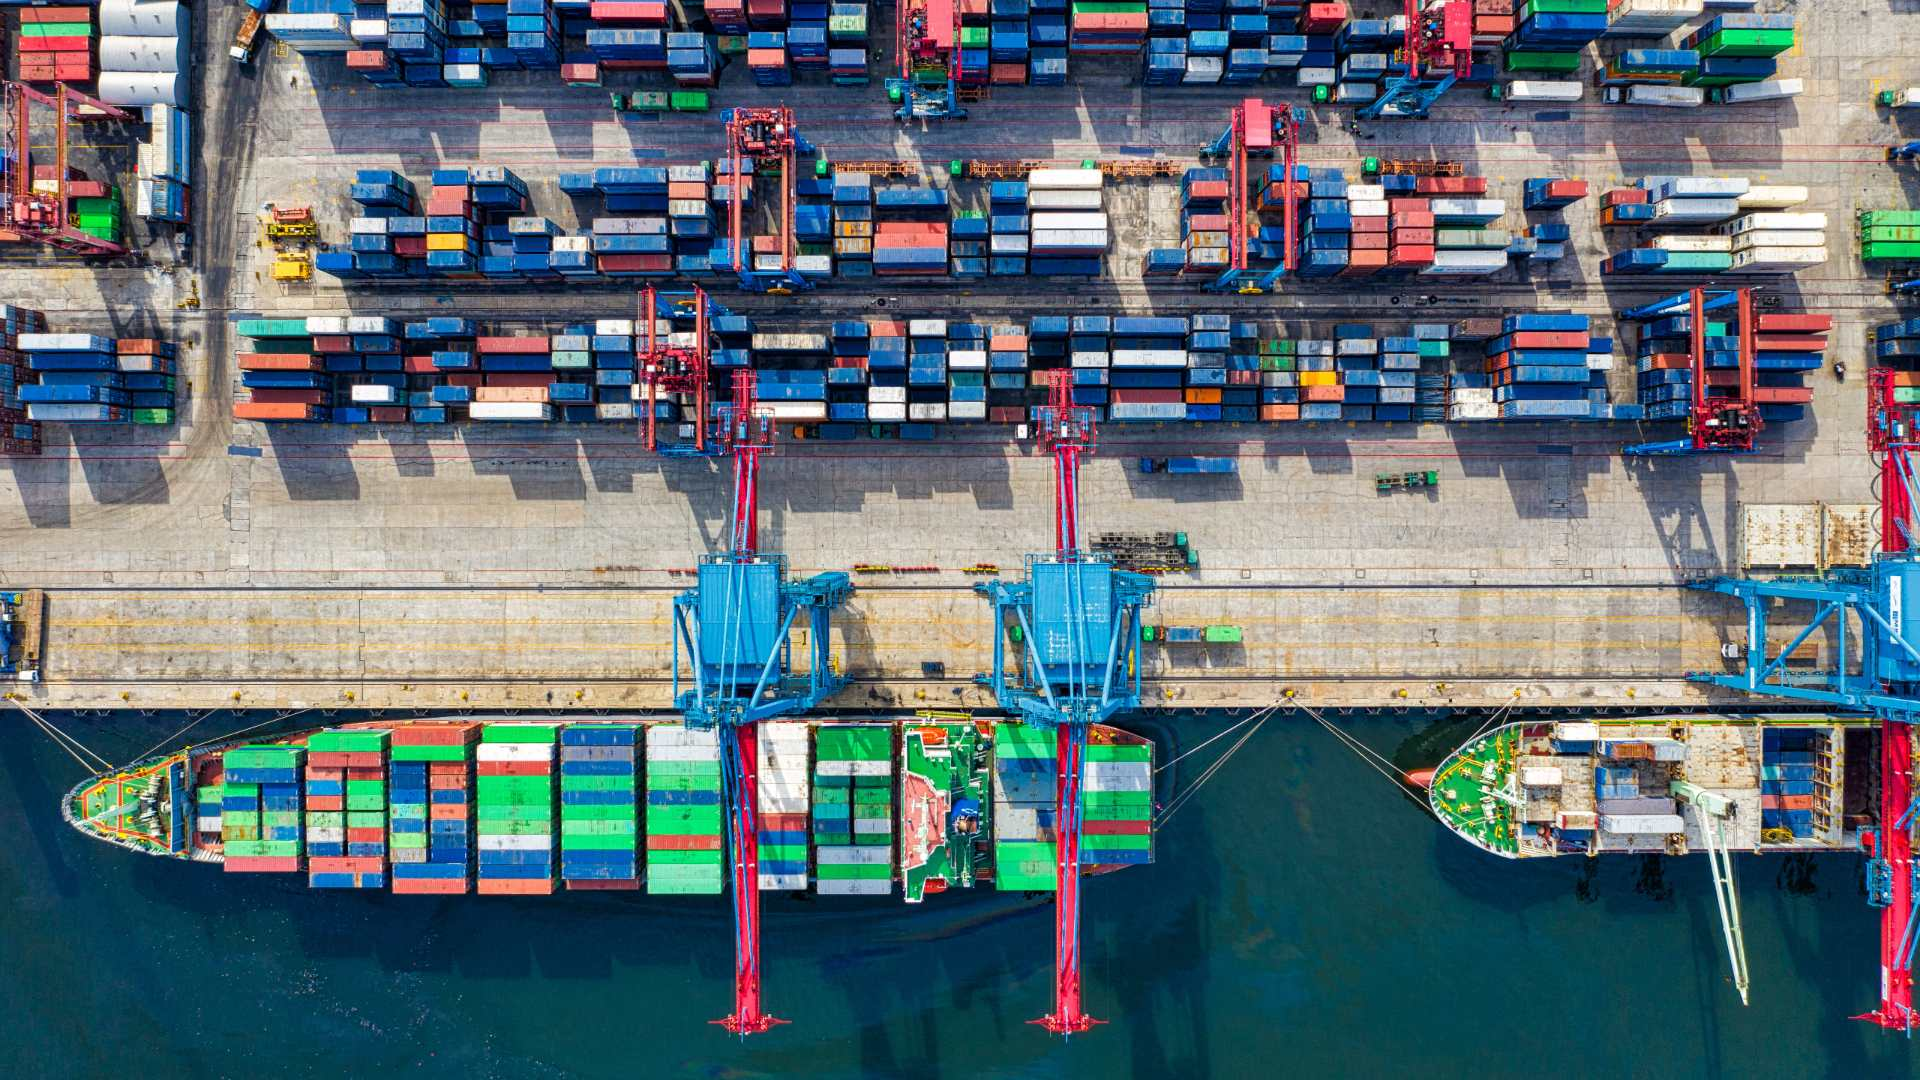
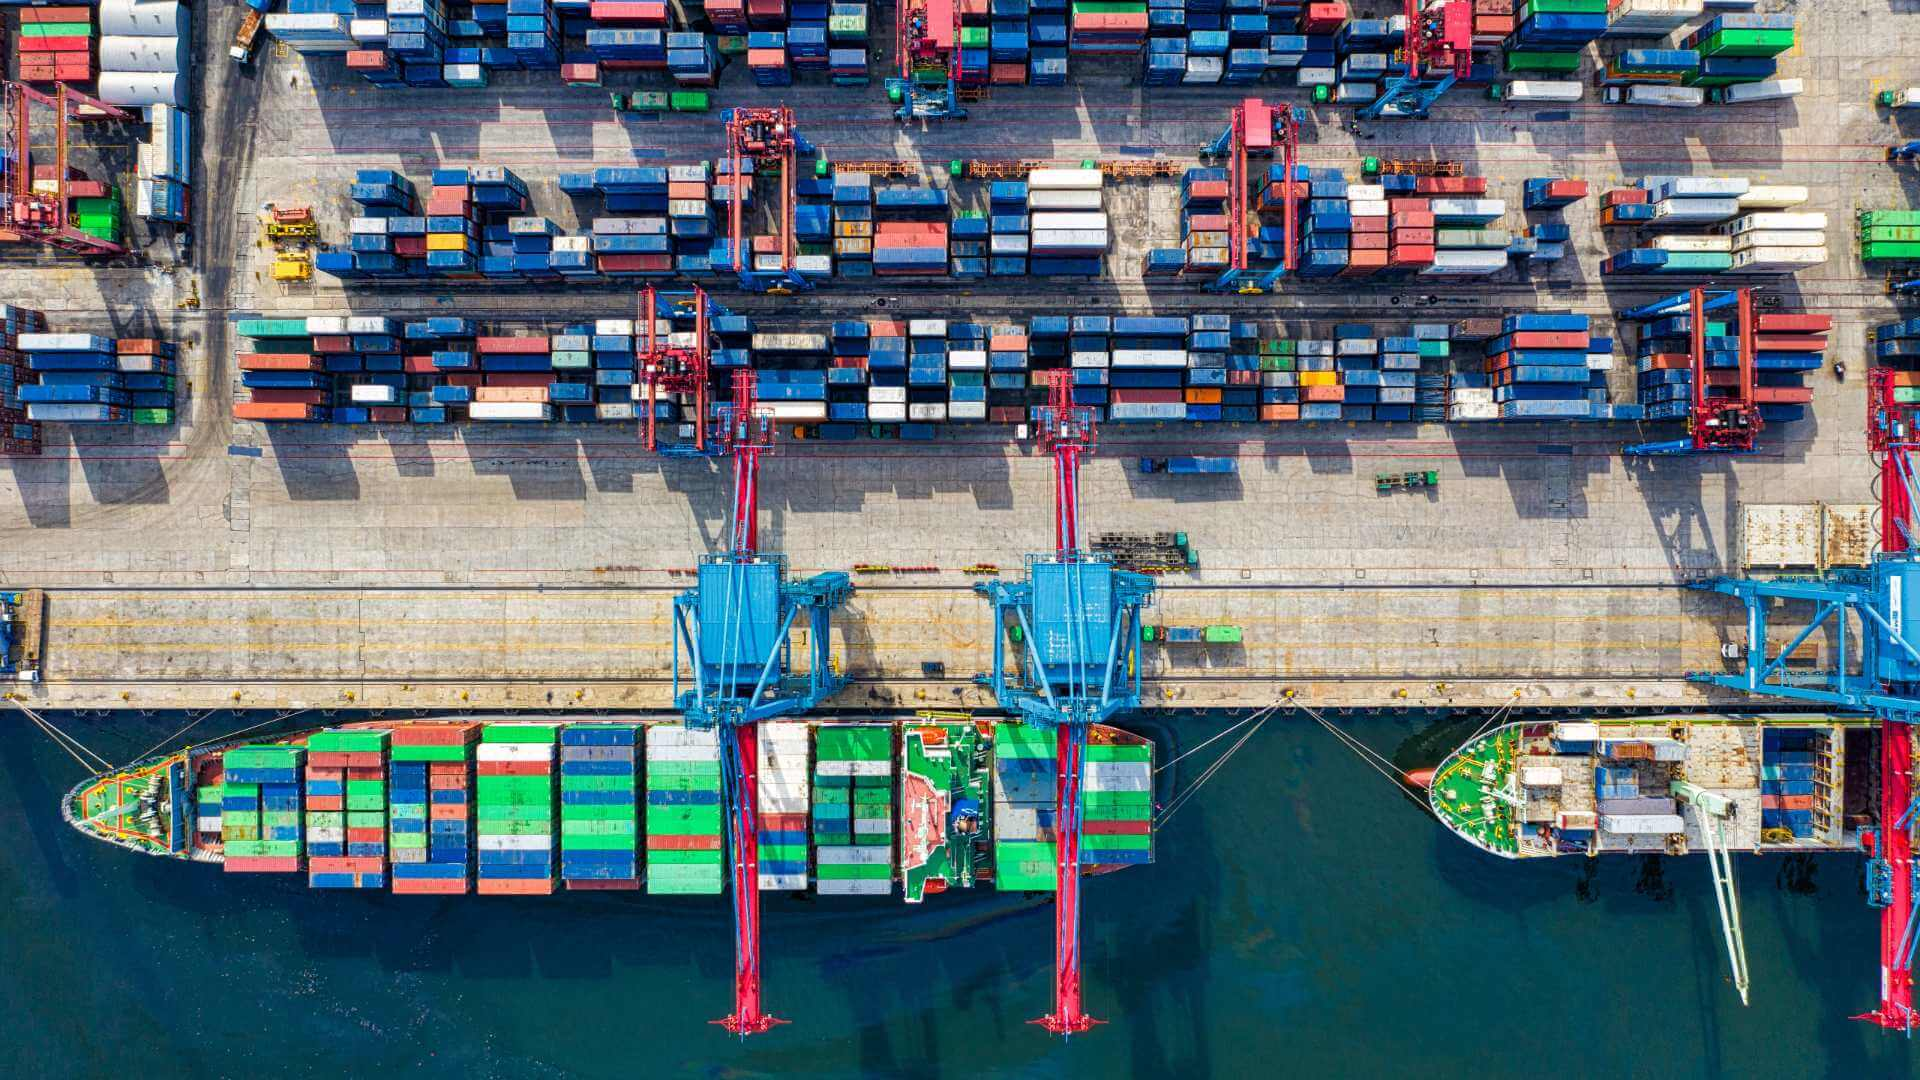
image optimize

Changed region(s): [[0.5312, 0.7944, 0.5625, 0.825], [0.375, 0.7028, 0.4062, 0.7333]]

diff --git a/src/app/pages/home/home.component.html b/src/app/pages/home/home.component.html
@@ -15,7 +15,7 @@
   <app-parallax-banner
     title="Parallax Banner Title"
     description="Lorem ipsum dolor sit amet, consectetur adipiscing elit. Proin sollicitudin ligula vel sapien gravida tincidunt."
-    [imageUrl]="'/assets/images/banner.jpg'">
+    [imageUrl]="'/assets/images/banner.png'">
   </app-parallax-banner>
 
   <div class="container">
@@ -23,12 +23,12 @@
       <div class="col-12">
 
       </div>
+      </div>
     </div>
-  </div>
   <app-two-column-text-image
   title="LOGISTICS SOLUTIONS"
   description="Phoenix Fortitude specializes in cross-border road freight projects and sensitive cargo to Mozambique, Zimbabwe, Malawi, Botswana, and Namibia. We provide tailor-made logistics solutions with a registered Exporter (SADC) and Customs Clearing Agent."
-  image="/assets/images/services.jpg">
+  image="/assets/images/services.png">
 </app-two-column-text-image>
 
   <app-single-column-text

diff --git a/src/app/pages/contact/contact.component.html b/src/app/pages/contact/contact.component.html
@@ -1,5 +1,5 @@
 <section class="contact">
-  <app-banner title="Contact Page Banner Title" image = "/assets/images/contact-us.jpg"></app-banner>
+  <app-banner title="Contact Page Banner Title" image = "/assets/images/contact-us.png"></app-banner>
 
   <app-two-column-text
     leftColumnTitle="Contact Us"

diff --git a/src/app/pages/services/services.component.html b/src/app/pages/services/services.component.html
@@ -1,5 +1,5 @@
 <section class="services">
-  <app-banner title="Services Page Banner Title" image="/assets/images/our-services.jpg"></app-banner>
+  <app-banner title="Services Page Banner Title" image="/assets/images/our-services.png"></app-banner>
 
   <app-single-column-text
     heading="Our Services"
